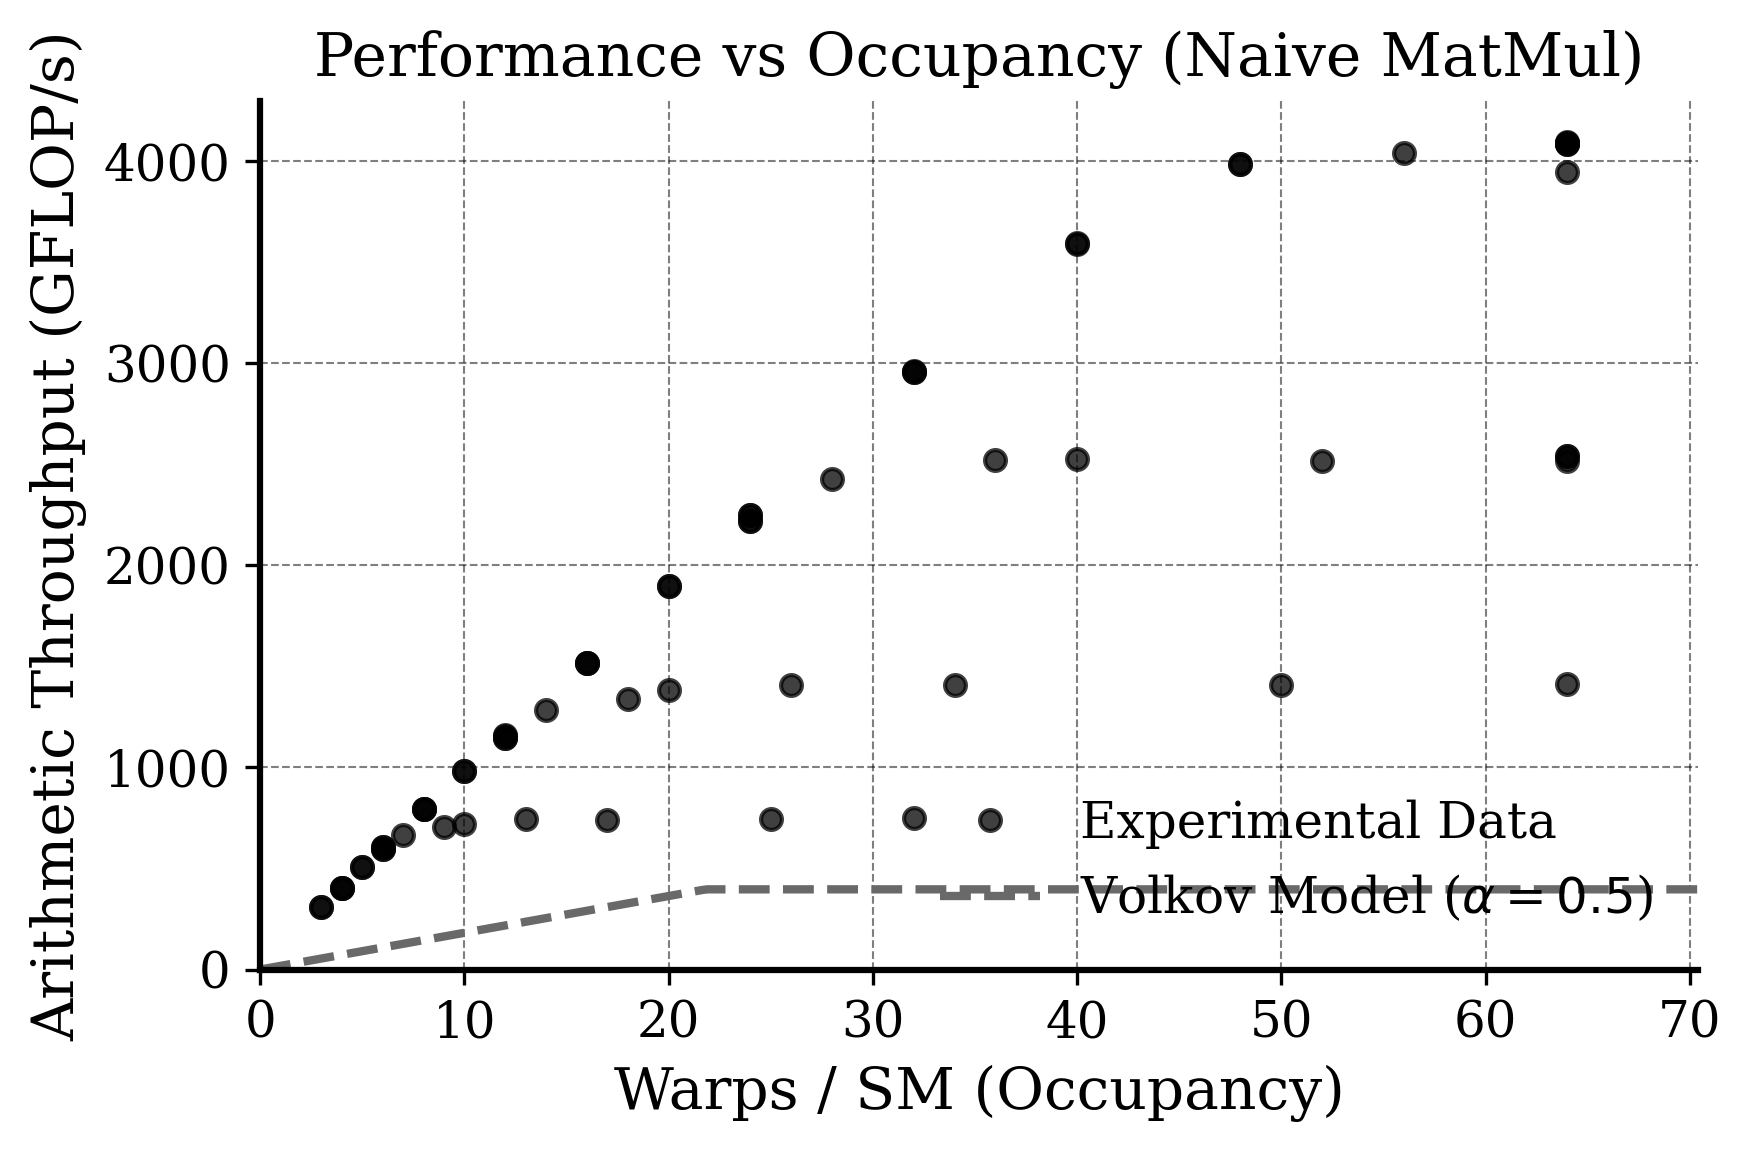
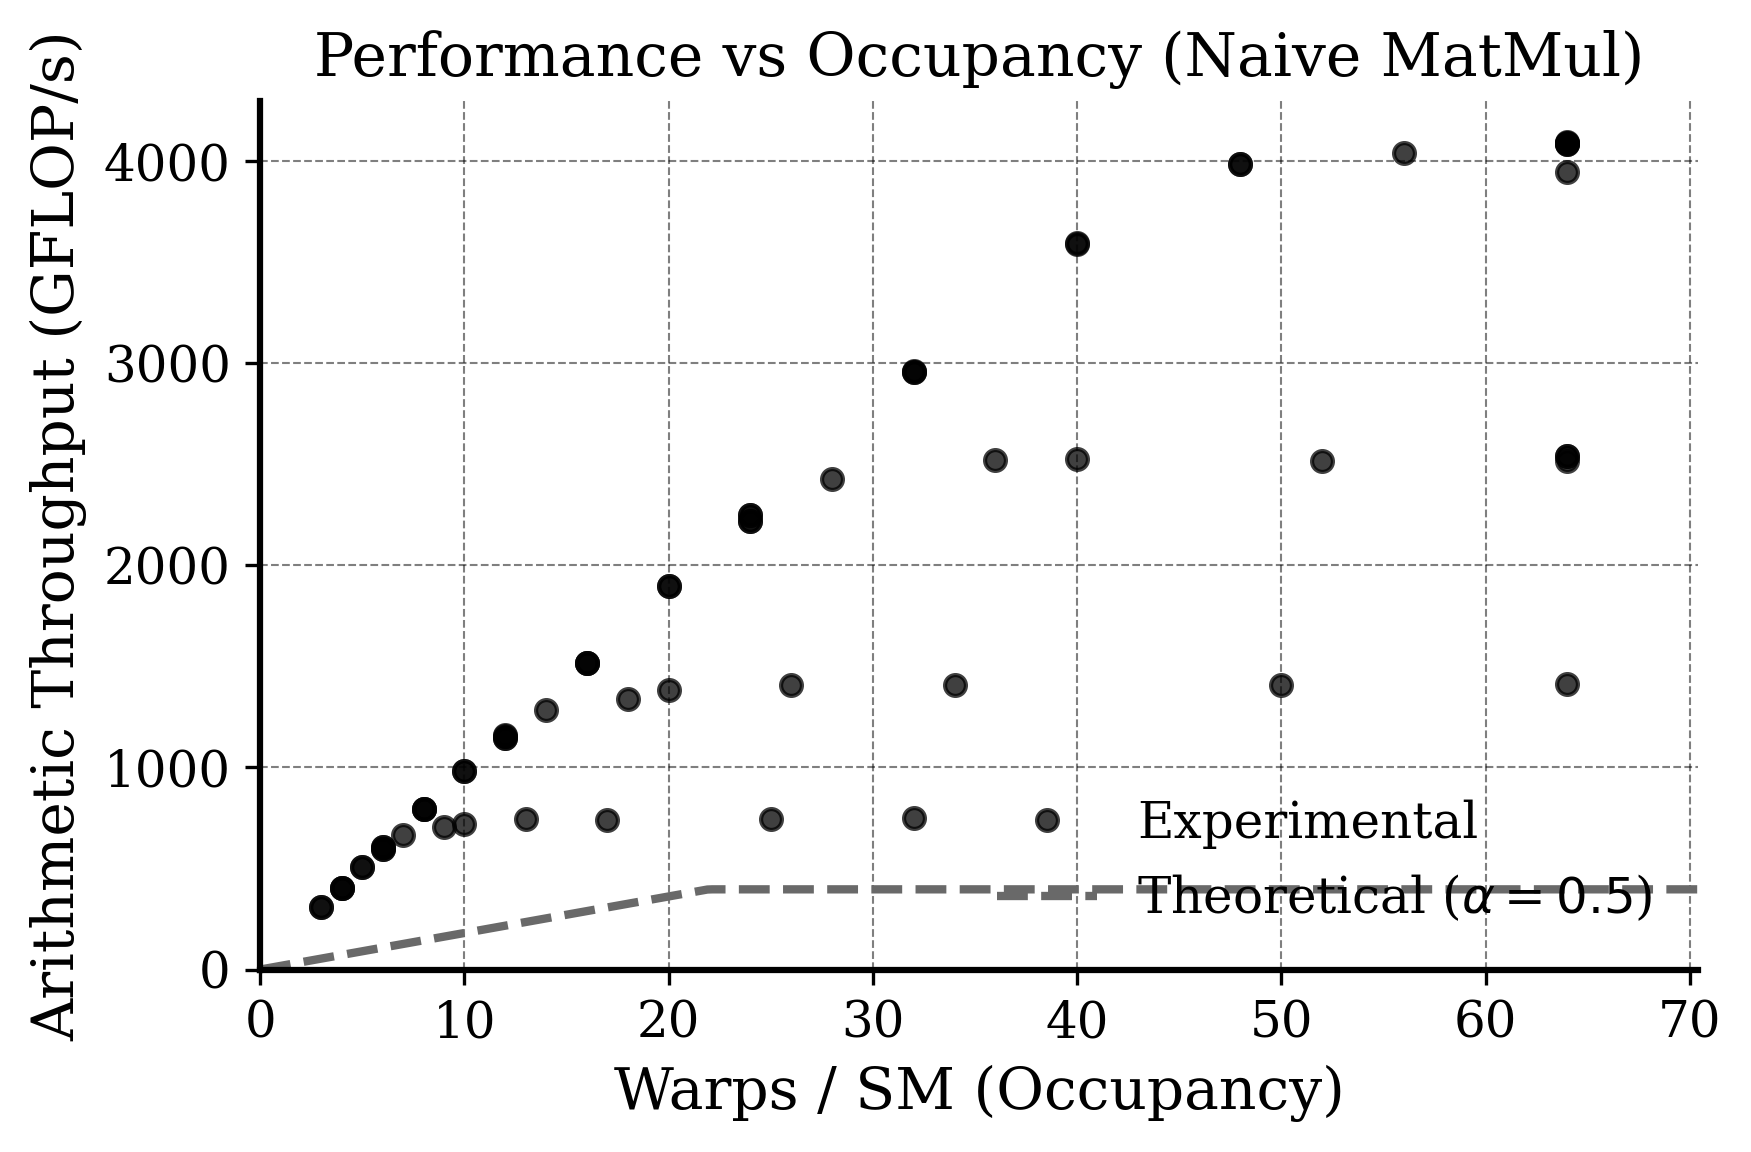
initial commit.

Changed region(s): [[0.5551, 0.6875, 0.8943, 0.8125], [0.5243, 0.75, 0.5551, 0.7812]]

diff --git a/Results/A100/matmul_tiled/analysis.py b/Results/A100/matmul_tiled/analysis.py
@@ -1,0 +1,113 @@
+import csv
+import sys
+import os
+
+def analyze_performance(filename):
+    """
+    Reads a performance CSV, finds peak GFLOPS, and identifies occupancy 
+    values for runs achieving > 95% of that peak.
+
+    Args:
+        filename (str): The path to the CSV file.
+    """
+    
+    if not os.path.exists(filename):
+        print(f"Error: File not found at '{filename}'")
+        print("Please check the file path and try again.")
+        return
+
+    data = []
+    max_gflops = 0.0
+
+    # --- First Pass: Read data and find max GFLOPS ---
+    try:
+        with open(filename, mode='r', newline='', encoding='utf-8') as file:
+            # Check for empty file
+            first_char = file.read(1)
+            if not first_char:
+                print(f"Error: The file '{filename}' is empty.")
+                return
+            file.seek(0) # Reset file pointer
+
+            reader = csv.DictReader(file)
+            
+            # Check for expected headers
+            expected_headers = ['GFLOPS', 'MaxAttainedOccupancy']
+            if not all(h in reader.fieldnames for h in expected_headers):
+                print(f"Error: CSV missing required headers. Found: {reader.fieldnames}")
+                print(f"Expected at least: {expected_headers}")
+                return
+
+            for i, row in enumerate(reader):
+                try:
+                    gflops = float(row['GFLOPS'])
+                    occupancy = int(row['MaxAttainedOccupancy'])
+                    
+                    data.append({'GFLOPS': gflops, 'Occupancy': occupancy})
+                    
+                    if gflops > max_gflops:
+                        max_gflops = gflops
+                        
+                except (ValueError, TypeError) as e:
+                    print(f"Warning: Skipping invalid data at row {i+2}: {row}. Error: {e}")
+                except KeyError as e:
+                    print(f"Warning: Skipping row {i+2} due to missing key: {e}")
+
+    except FileNotFoundError:
+        print(f"Error: File not found at '{filename}'")
+        return
+    except Exception as e:
+        print(f"An unexpected error occurred while reading the file: {e}")
+        return
+
+    # --- Analysis ---
+    if not data:
+        print("No valid data was read from the file.")
+        return
+
+    # Calculate the 95% performance threshold
+    performance_threshold = max_gflops * 0.95
+
+    # --- Second Pass: Filter data based on the threshold ---
+    high_perf_occupancies = set()
+    for row in data:
+        if row['GFLOPS'] > performance_threshold:
+            high_perf_occupancies.add(row['Occupancy'])
+
+    # --- Print Results ---
+    print("--- Performance Analysis ---")
+    print(f"Peak Performance (Max GFLOPS): {max_gflops:.4f}")
+    print(f"95% Performance Threshold: {performance_threshold:.4f} GFLOPS")
+    print("-" * 30)
+
+    if not high_perf_occupancies:
+        print("No experiments were found that exceeded the 95% performance threshold.")
+    else:
+        print("Found Occupancy values for experiments > 95% peak performance:")
+        # Sort the set for consistent output
+        sorted_occupancies = sorted(list(high_perf_occupancies))
+        print(f"-> {sorted_occupancies}")
+    
+    print("--- End of Analysis ---")
+
+
+def main():
+    """
+    Main function to run the script.
+    Expects the CSV filename as a command-line argument.
+    """
+    # Check if a filename is provided
+    if len(sys.argv) < 2:
+        print("Usage: python analyze_occupancy.py <filename.csv>")
+        print("\nExample: python analyze_occupancy.py sample_data.csv")
+        # Automatically run with 'sample_data.csv' if it exists, for convenience
+        if os.path.exists("sample_data.csv"):
+            print("\nNo filename provided. Running with 'sample_data.csv' by default...")
+            analyze_performance("sample_data.csv")
+        return
+    
+    filename = sys.argv[1]
+    analyze_performance(filename)
+
+if __name__ == "__main__":
+    main()

diff --git a/Results/H100/matmul_naive/analysis.py b/Results/H100/matmul_naive/analysis.py
@@ -1,0 +1,113 @@
+import csv
+import sys
+import os
+
+def analyze_performance(filename):
+    """
+    Reads a performance CSV, finds peak GFLOPS, and identifies occupancy 
+    values for runs achieving > 95% of that peak.
+
+    Args:
+        filename (str): The path to the CSV file.
+    """
+    
+    if not os.path.exists(filename):
+        print(f"Error: File not found at '{filename}'")
+        print("Please check the file path and try again.")
+        return
+
+    data = []
+    max_gflops = 0.0
+
+    # --- First Pass: Read data and find max GFLOPS ---
+    try:
+        with open(filename, mode='r', newline='', encoding='utf-8') as file:
+            # Check for empty file
+            first_char = file.read(1)
+            if not first_char:
+                print(f"Error: The file '{filename}' is empty.")
+                return
+            file.seek(0) # Reset file pointer
+
+            reader = csv.DictReader(file)
+            
+            # Check for expected headers
+            expected_headers = ['GFLOPS', 'MaxAttainedOccupancy']
+            if not all(h in reader.fieldnames for h in expected_headers):
+                print(f"Error: CSV missing required headers. Found: {reader.fieldnames}")
+                print(f"Expected at least: {expected_headers}")
+                return
+
+            for i, row in enumerate(reader):
+                try:
+                    gflops = float(row['GFLOPS'])
+                    occupancy = int(row['MaxAttainedOccupancy'])
+                    
+                    data.append({'GFLOPS': gflops, 'Occupancy': occupancy})
+                    
+                    if gflops > max_gflops:
+                        max_gflops = gflops
+                        
+                except (ValueError, TypeError) as e:
+                    print(f"Warning: Skipping invalid data at row {i+2}: {row}. Error: {e}")
+                except KeyError as e:
+                    print(f"Warning: Skipping row {i+2} due to missing key: {e}")
+
+    except FileNotFoundError:
+        print(f"Error: File not found at '{filename}'")
+        return
+    except Exception as e:
+        print(f"An unexpected error occurred while reading the file: {e}")
+        return
+
+    # --- Analysis ---
+    if not data:
+        print("No valid data was read from the file.")
+        return
+
+    # Calculate the 95% performance threshold
+    performance_threshold = max_gflops * 0.95
+
+    # --- Second Pass: Filter data based on the threshold ---
+    high_perf_occupancies = set()
+    for row in data:
+        if row['GFLOPS'] > performance_threshold:
+            high_perf_occupancies.add(row['Occupancy'])
+
+    # --- Print Results ---
+    print("--- Performance Analysis ---")
+    print(f"Peak Performance (Max GFLOPS): {max_gflops:.4f}")
+    print(f"95% Performance Threshold: {performance_threshold:.4f} GFLOPS")
+    print("-" * 30)
+
+    if not high_perf_occupancies:
+        print("No experiments were found that exceeded the 95% performance threshold.")
+    else:
+        print("Found Occupancy values for experiments > 95% peak performance:")
+        # Sort the set for consistent output
+        sorted_occupancies = sorted(list(high_perf_occupancies))
+        print(f"-> {sorted_occupancies}")
+    
+    print("--- End of Analysis ---")
+
+
+def main():
+    """
+    Main function to run the script.
+    Expects the CSV filename as a command-line argument.
+    """
+    # Check if a filename is provided
+    if len(sys.argv) < 2:
+        print("Usage: python analyze_occupancy.py <filename.csv>")
+        print("\nExample: python analyze_occupancy.py sample_data.csv")
+        # Automatically run with 'sample_data.csv' if it exists, for convenience
+        if os.path.exists("sample_data.csv"):
+            print("\nNo filename provided. Running with 'sample_data.csv' by default...")
+            analyze_performance("sample_data.csv")
+        return
+    
+    filename = sys.argv[1]
+    analyze_performance(filename)
+
+if __name__ == "__main__":
+    main()

diff --git a/Results/H100/matmul_tiled/analysis.py b/Results/H100/matmul_tiled/analysis.py
@@ -1,0 +1,113 @@
+import csv
+import sys
+import os
+
+def analyze_performance(filename):
+    """
+    Reads a performance CSV, finds peak GFLOPS, and identifies occupancy 
+    values for runs achieving > 95% of that peak.
+
+    Args:
+        filename (str): The path to the CSV file.
+    """
+    
+    if not os.path.exists(filename):
+        print(f"Error: File not found at '{filename}'")
+        print("Please check the file path and try again.")
+        return
+
+    data = []
+    max_gflops = 0.0
+
+    # --- First Pass: Read data and find max GFLOPS ---
+    try:
+        with open(filename, mode='r', newline='', encoding='utf-8') as file:
+            # Check for empty file
+            first_char = file.read(1)
+            if not first_char:
+                print(f"Error: The file '{filename}' is empty.")
+                return
+            file.seek(0) # Reset file pointer
+
+            reader = csv.DictReader(file)
+            
+            # Check for expected headers
+            expected_headers = ['GFLOPS', 'MaxAttainedOccupancy']
+            if not all(h in reader.fieldnames for h in expected_headers):
+                print(f"Error: CSV missing required headers. Found: {reader.fieldnames}")
+                print(f"Expected at least: {expected_headers}")
+                return
+
+            for i, row in enumerate(reader):
+                try:
+                    gflops = float(row['GFLOPS'])
+                    occupancy = int(row['MaxAttainedOccupancy'])
+                    
+                    data.append({'GFLOPS': gflops, 'Occupancy': occupancy})
+                    
+                    if gflops > max_gflops:
+                        max_gflops = gflops
+                        
+                except (ValueError, TypeError) as e:
+                    print(f"Warning: Skipping invalid data at row {i+2}: {row}. Error: {e}")
+                except KeyError as e:
+                    print(f"Warning: Skipping row {i+2} due to missing key: {e}")
+
+    except FileNotFoundError:
+        print(f"Error: File not found at '{filename}'")
+        return
+    except Exception as e:
+        print(f"An unexpected error occurred while reading the file: {e}")
+        return
+
+    # --- Analysis ---
+    if not data:
+        print("No valid data was read from the file.")
+        return
+
+    # Calculate the 95% performance threshold
+    performance_threshold = max_gflops * 0.95
+
+    # --- Second Pass: Filter data based on the threshold ---
+    high_perf_occupancies = set()
+    for row in data:
+        if row['GFLOPS'] > performance_threshold:
+            high_perf_occupancies.add(row['Occupancy'])
+
+    # --- Print Results ---
+    print("--- Performance Analysis ---")
+    print(f"Peak Performance (Max GFLOPS): {max_gflops:.4f}")
+    print(f"95% Performance Threshold: {performance_threshold:.4f} GFLOPS")
+    print("-" * 30)
+
+    if not high_perf_occupancies:
+        print("No experiments were found that exceeded the 95% performance threshold.")
+    else:
+        print("Found Occupancy values for experiments > 95% peak performance:")
+        # Sort the set for consistent output
+        sorted_occupancies = sorted(list(high_perf_occupancies))
+        print(f"-> {sorted_occupancies}")
+    
+    print("--- End of Analysis ---")
+
+
+def main():
+    """
+    Main function to run the script.
+    Expects the CSV filename as a command-line argument.
+    """
+    # Check if a filename is provided
+    if len(sys.argv) < 2:
+        print("Usage: python analyze_occupancy.py <filename.csv>")
+        print("\nExample: python analyze_occupancy.py sample_data.csv")
+        # Automatically run with 'sample_data.csv' if it exists, for convenience
+        if os.path.exists("sample_data.csv"):
+            print("\nNo filename provided. Running with 'sample_data.csv' by default...")
+            analyze_performance("sample_data.csv")
+        return
+    
+    filename = sys.argv[1]
+    analyze_performance(filename)
+
+if __name__ == "__main__":
+    main()

diff --git a/Results/A100/matmul_naive/plot.py b/Results/A100/matmul_naive/plot.py
@@ -6,7 +6,7 @@ import os
 # --- Configuration ---
 ARITH_INTENSITY = 0.5  # Fixed for naive matmul (alpha)
 CSV_INPUT_FILE = "results_n4096.csv"
-PLOT_OUTPUT_FILE = "naive_h100.png"
+PLOT_OUTPUT_FILE = "naive_a100.png"
 
 def setup_plot_style():
     """Sets a professional, publication-quality plot style."""
@@ -30,14 +30,14 @@ def calculate_volkov_model(warps_per_sm, alpha):
     
     # --- Hardware Constants (H100 inferred) ---
     # num_sms (114) * clock (1.755) * 32 ~= 6402.24 (base coeff from previous script)
-    num_sms = 114           
-    clock_rate_ghz = 1.755  
+    num_sms = 108          
+    clock_rate_ghz = 1.410 
     warp_size = 32
     
     # --- Constraints ---
-    latency = 352.0         # L (cycles)
-    mem_thru = 0.0620       # Memory ops per cycle per SM
-    issue_thru = 4.0        # Issue bandwidth (instructions per cycle per SM)
+    latency = 240.0         # L (cycles)
+    mem_thru = 0.0648      # Memory ops per cycle per SM
+    issue_thru = 2.0        # Issue bandwidth (instructions per cycle per SM)
     
     # 1. Calculate the Memory Throughput Term: min( n/L, mem_thru, issue/(a+1) )
     #    'n' is warps_per_sm

diff --git a/Results/A100/matmul_tiled/plot.py b/Results/A100/matmul_tiled/plot.py
@@ -24,14 +24,14 @@ def calculate_volkov_model(warps_per_sm, alpha):
     Formula mult by 2 because 1 FMA = 2 FLOPs
     """
     # H100/A100 estimates (Adjust if needed for specific GPU)
-    num_sms = 114           # A100=108, H100=114
-    clock_rate_ghz = 1.755   # A100 Boost
+    num_sms = 108           # A100=108, H100=114
+    clock_rate_ghz = 1.410   # A100 Boost
     warp_size = 32
     
     # Roofline constraints
-    latency = 352.0         # Latency L (cycles)
-    mem_thru = 0.0620       # Memory ops per cycle per SM (approx)
-    issue_thru = 4.0        # Issue bandwidth
+    latency = 240.0         # Latency L (cycles)
+    mem_thru = 0.0648       # Memory ops per cycle per SM (approx)
+    issue_thru = 2.0        # Issue bandwidth
     
     # Terms
     term_latency = warps_per_sm / (latency + 4 * alpha)
